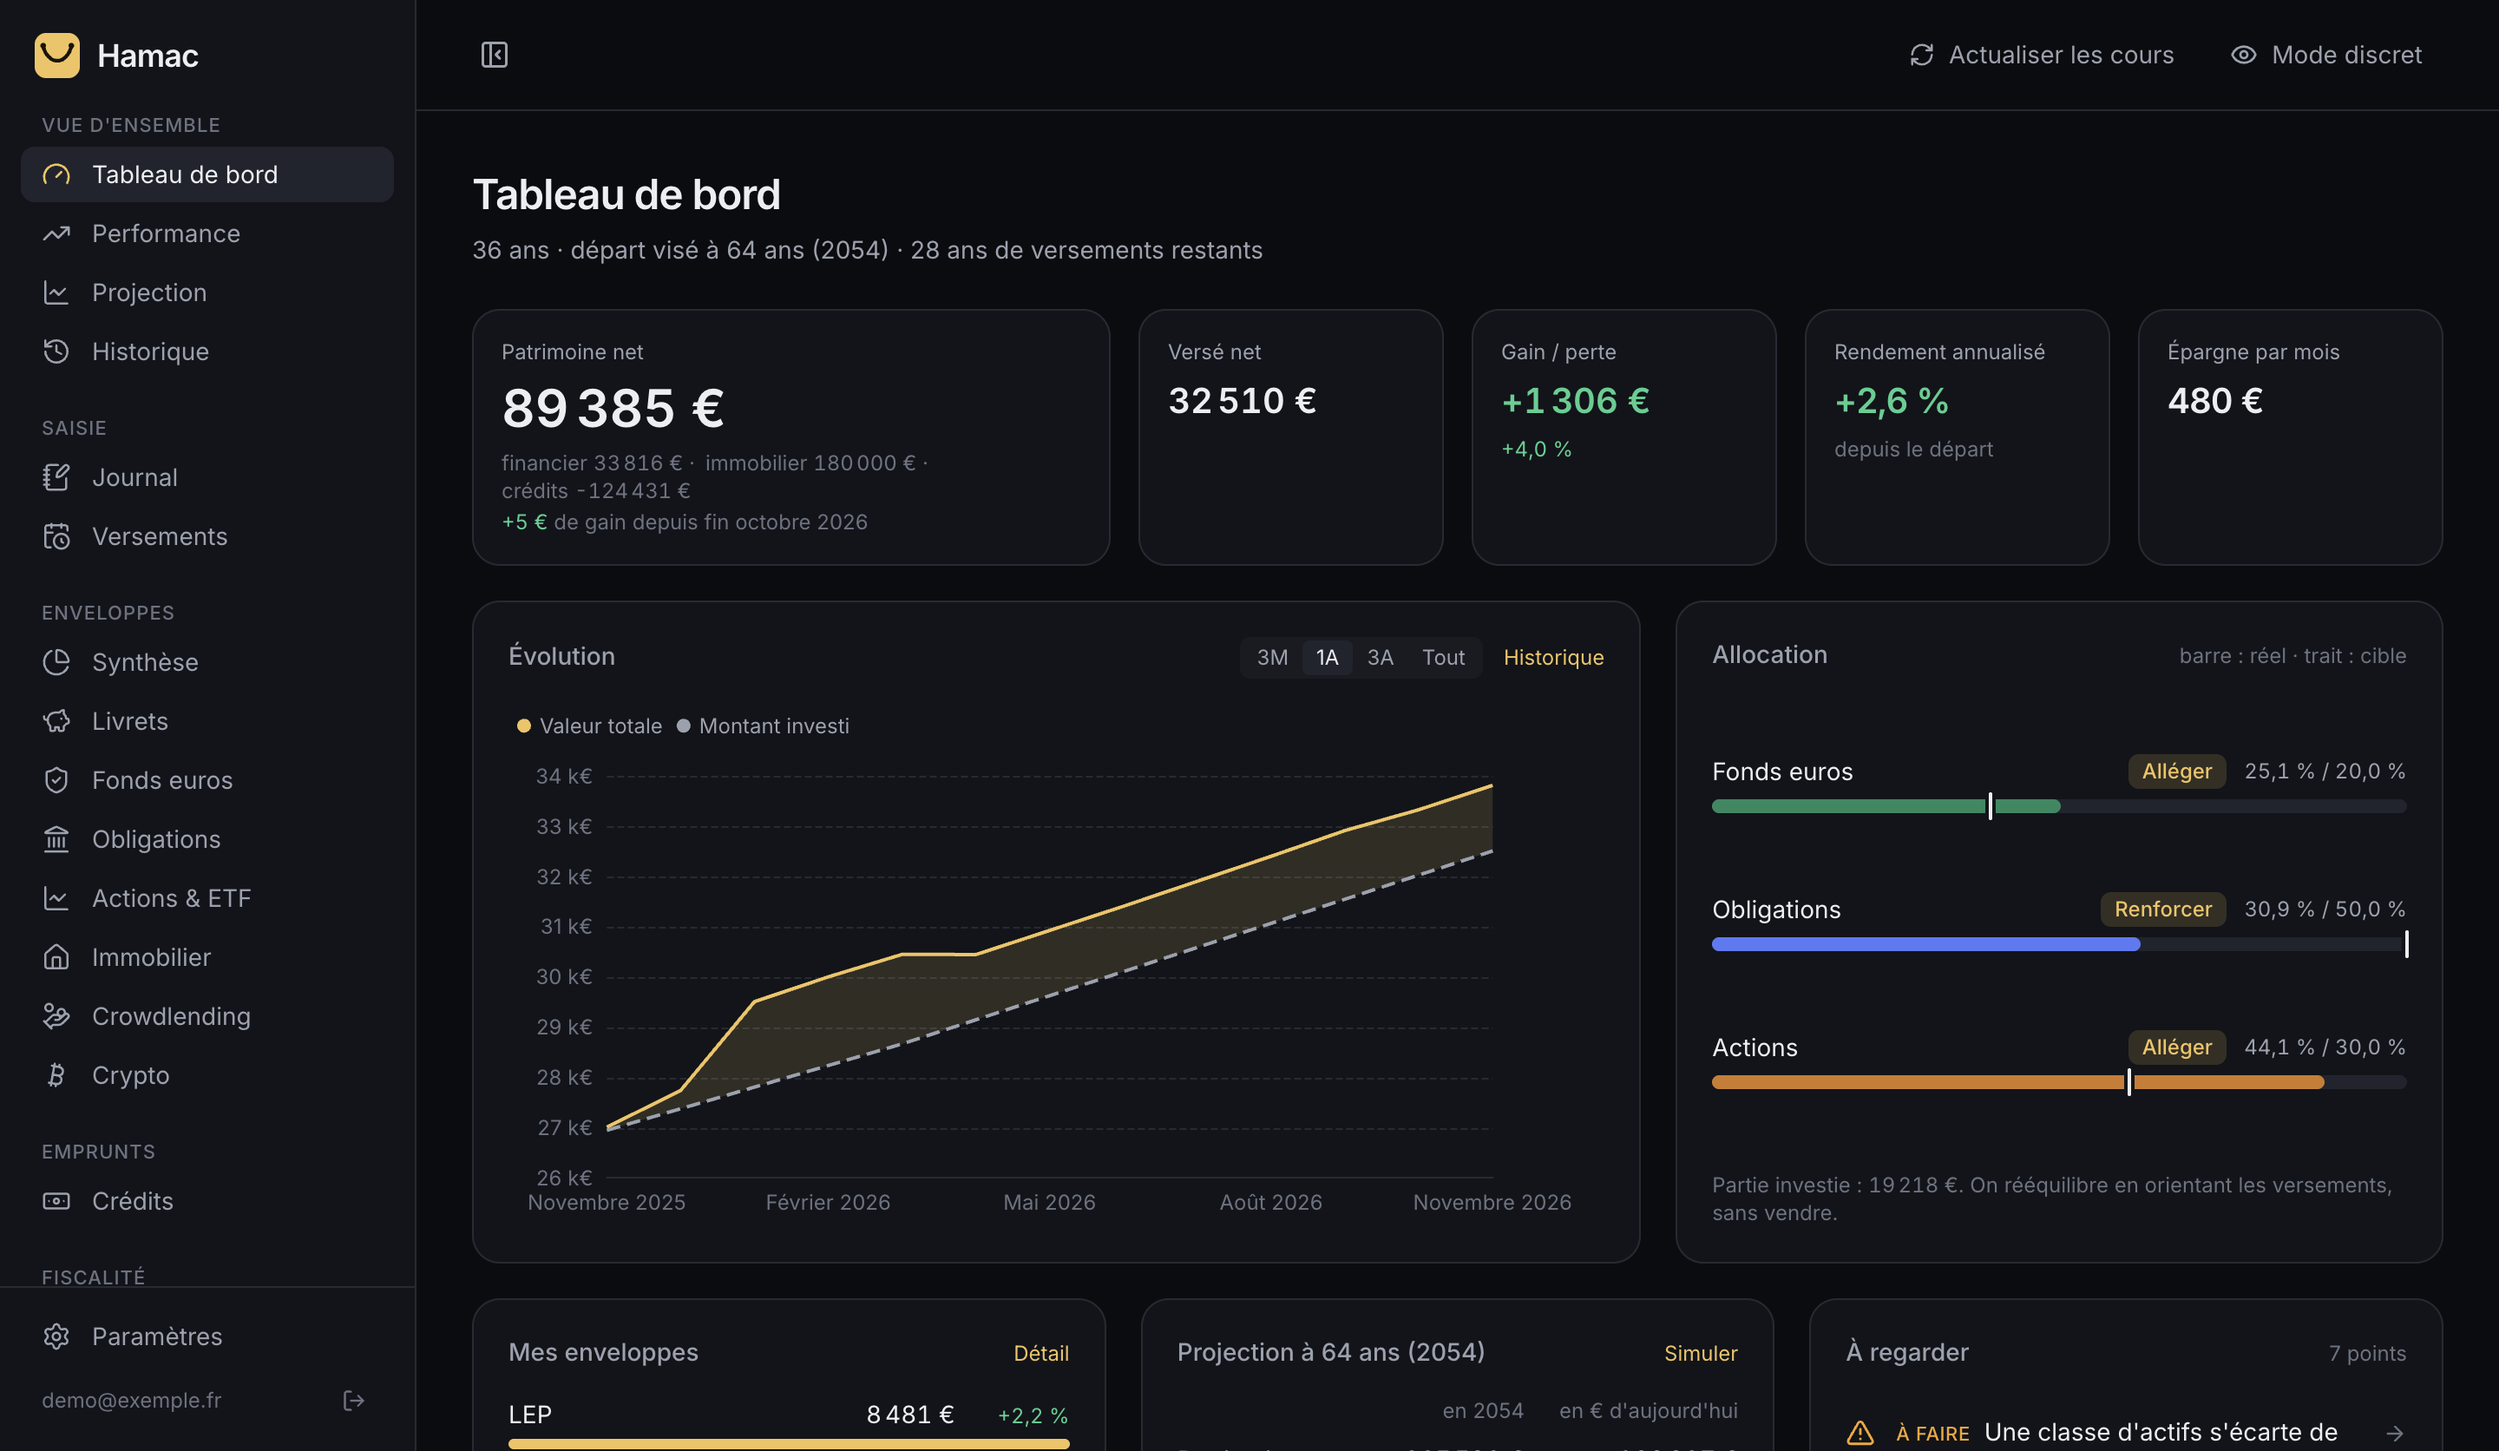
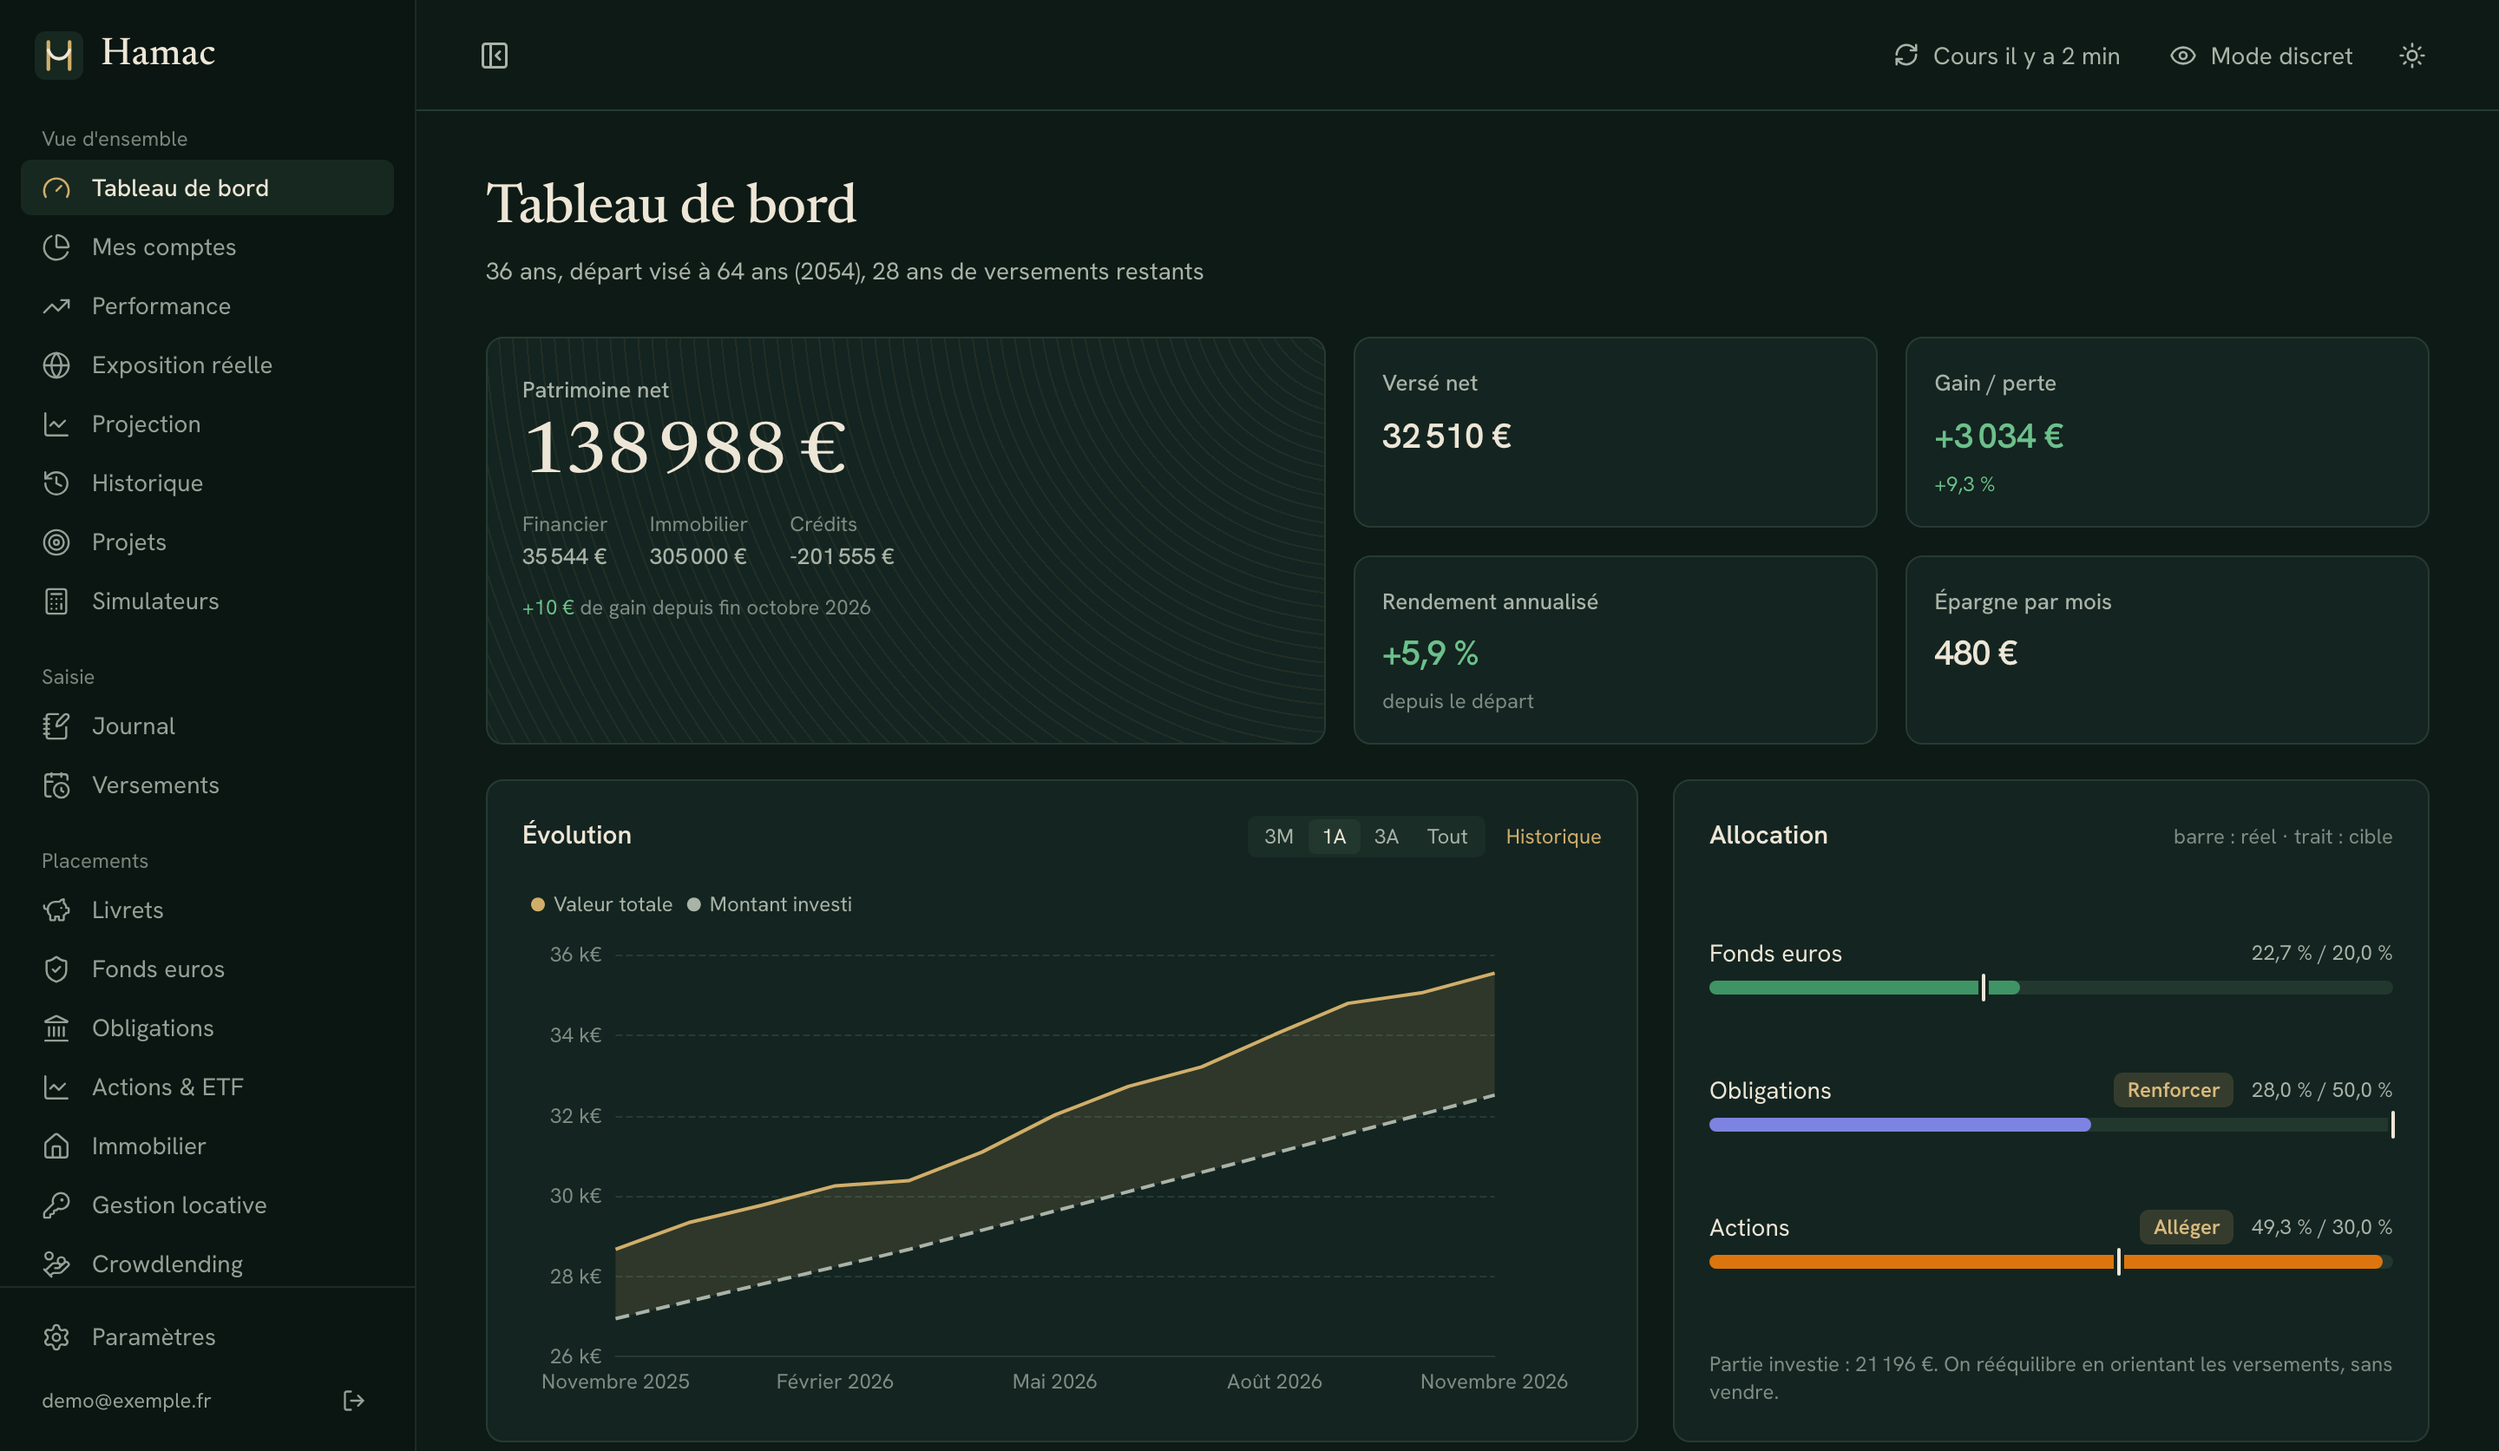
README : nouvelles captures, thème clair et sombre, fonctionnalités à jour

diff --git a/README.md b/README.md
@@ -4,13 +4,20 @@
 
 **Suivre son patrimoine, préparer sa retraite, avec la fiscalité française.**
 
-Livrets · assurance-vie · PEA · PER · compte-titres · obligations · crypto · crowdlending · immobilier · crédits
+Livrets · assurance-vie · PEA · PER · compte-titres · obligations · crypto · crowdlending · immobilier locatif · crédits · autres biens
 
 [![Licence : AGPL v3](https://img.shields.io/badge/licence-AGPL--3.0-blue.svg)](LICENSE)
 ![Application web auto-hébergée](https://img.shields.io/badge/application-web%20auto--h%C3%A9berg%C3%A9e-green)
+![PostgreSQL](https://img.shields.io/badge/base-PostgreSQL-336791)
 ![Statut : en développement](https://img.shields.io/badge/statut-en%20d%C3%A9veloppement-orange)
 
-<img src="docs/captures/dashboard.png" alt="Tableau de bord de Hamac : patrimoine, évolution, allocation réelle et cible, comptes, projection et points à regarder" width="900">
+<picture>
+  <source media="(prefers-color-scheme: dark)" srcset="docs/captures/dashboard.png">
+  <source media="(prefers-color-scheme: light)" srcset="docs/captures/dashboard-clair.png">
+  <img src="docs/captures/dashboard.png" alt="Tableau de bord de Hamac : patrimoine net, évolution, allocation réelle face à la cible" width="900">
+</picture>
+
+<sub>Thème sombre « Nocturne » ou clair « Maison », au choix ou selon le système.</sub>
 
 </div>
 
@@ -55,8 +62,15 @@ en la fiabilisant.
   projection (ou actifs et dettes) et seulement ce qui demande une action.
 - **Évolution de chaque compte et de chaque titre** : valeur totale et montant investi, avec une courbe par
   titre dans un compte. Un clic sur une ligne suffit pour voir un compte ou un titre seul.
-- **Mes comptes** côte à côte, **performance** (rendement annualisé par enveloppe, placement ou compte) et **historique**
-  reconstruit mois par mois depuis le journal : corriger une opération passée corrige tout l'historique.
+- **Mes comptes** côte à côte, avec leur rôle, leur part du patrimoine et la garantie en cas de faillite.
+- **Performance** : rendement annualisé (TRI) par enveloppe, placement ou compte, rendement cumulé hors
+  versements, plus forte baisse, volatilité, et d'où vient le gain.
+- **Historique** : la situation à deux dates et ce qui a changé entre les deux, reconstruit mois par mois depuis
+  le journal. Corriger une opération passée corrige tout l'historique.
+- **Exposition réelle** : ce que contiennent vraiment vos ETF (pays, secteurs, devises, plus grosses lignes), d'après
+  la composition publiée par l'émetteur (Amundi, iShares).
+- **Projets** : un achat, des études, des travaux, avec la somme à réunir, la date, les comptes affectés et le
+  versement mensuel nécessaire.
 
 ### Suivre chaque placement
 
@@ -71,7 +85,14 @@ en la fiabilisant.
 - **Crypto** : positions, plus-values de chaque cession et impôt de l'année.
 - **Crowdlending** : prêts projet par projet, intérêts déclarés par mois et par plateforme, paiements
   partiels, échéances prolongées, retards et défauts, import du fichier Bricks.
-- **Immobilier et SCPI** : biens, fiche descriptive et DPE, statut, frais d'achat et part détenue, pour obtenir le patrimoine net ; suivi locatif avec bail, rappels, loyers, dépenses et rentabilité, résultats par année, valeur dans le temps, vente, documents, quittances, révision du loyer selon l'indice INSEE avec courrier, et fiche imprimable.
+- **Immobilier et SCPI** : biens, fiche descriptive et DPE, statut, frais d'achat et part détenue, pour obtenir
+  le patrimoine net ; dépenses et rentabilité, résultats par année, valeur dans le temps, vente, documents et fiche
+  imprimable.
+- **Gestion locative** : tout le parc loué comme le suivrait une agence. Lots, baux, locataires et garanties,
+  loyers du mois pointés un par un, impayés, lots vides, occupation, révision du loyer selon l'indice INSEE, et
+  courriers prêts à imprimer (quittance, avis d'échéance, relance, attestation, révision).
+- **Autres biens** : or, objets de valeur, véhicules, parts de société non cotée, argent prêté, avec la valeur en
+  cas de vente rapide et l'impôt à la vente.
 - **Crédits** immobiliers, travaux, consommation ou auto, avec différé et remboursements anticipés : échéance et capital restant dû calculés ou repris
   d'un relevé, assurance en montant fixe ou en taux (capital emprunté ou restant dû), coût année par année.
 
@@ -84,8 +105,12 @@ en la fiabilisant.
   établissements et les grosses dépenses prévues, puis la phase de retraits jusqu'à l'âge horizon.
 - **Fourchette de résultats** selon les marchés (simulation de Monte-Carlo) et simulateur « et si »
   (versement en plus, âge de départ, rendement, inflation).
-- **Impôts** : ce que coûterait un retrait aujourd'hui, rendements nets comparés, impôts de chaque année
-  (acompte, régularisation, prélèvements sociaux).
+- **Simulateurs** : rendement brut et net d'impôts d'un placement avant d'investir (obligation, ETF ou actions,
+  fonds euros, crowdlending…), comparés côte à côte pour un même montant.
+- **Impôts** : ce qu'il faudra payer à la prochaine déclaration, ce que coûterait un retrait aujourd'hui,
+  rendements nets comparés, impôts de chaque année (acompte, régularisation, prélèvements sociaux).
+- **Compteurs et plafonds** : ancienneté des PEA et assurances-vie, plafonds de versement, abattement annuel de
+  l'assurance-vie et abattements de donation restants.
 - **Aide à la déclaration** : cases à reporter par année de revenus, fiche par établissement et récapitulatif
   complet, contrôles de cohérence, comparaison avec le document reçu, export PDF et CSV. Un document d'aide, qui
   ne remplace ni l'IFU ni la notice officielle.
@@ -107,54 +132,63 @@ en la fiabilisant.
 - **Recherche de titres** par nom ou par ISIN (actions, ETF, obligations d'État et d'entreprise, crypto).
 - **Import des relevés** de banque ou de courtier en CSV, OFX ou QIF (aperçu avant import, doublons repérés) et export CSV.
 - **Sauvegarde complète** exportable et restaurable, pour passer d'une instance à une autre.
-- Barre latérale réductible, tableaux triables, mode discret qui masque les montants, interface sombre.
+- Barre latérale réductible, tableaux triables, mode discret qui masque les montants, thème clair ou sombre,
+  modules à afficher ou masquer.
 
 ## Captures
 
 <table>
   <tr>
-    <td><img src="docs/captures/evolution.png" alt="Évolution d'un compte : valeur totale, montant investi et une courbe par titre"></td>
-    <td><img src="docs/captures/credits.png" alt="Crédits : taux, assurance, coût total et graphique année par année"></td>
+    <td width="50%"><img src="docs/captures/comptes.png" alt="Mes comptes : valeur, versé net, gain et part du patrimoine de chaque compte"></td>
+    <td width="50%"><img src="docs/captures/performance.png" alt="Performance : rendement annualisé, rendement cumulé et origine du gain"></td>
   </tr>
   <tr>
-    <td align="center">Évolution d'un compte, titre par titre</td>
-    <td align="center">Crédits : coût année par année</td>
+    <td align="center">Mes comptes côte à côte</td>
+    <td align="center">Performance et origine du gain</td>
   </tr>
   <tr>
-    <td><img src="docs/captures/projection.png" alt="Projection jusqu'à la retraite avec fourchette et simulateur"></td>
-    <td><img src="docs/captures/obligations.png" alt="Obligations : prochain coupon, rendement à l'échéance, plus-value"></td>
+    <td width="50%"><img src="docs/captures/projection.png" alt="Projection jusqu'à la retraite par classe d'actifs, avec fourchette et simulateur"></td>
+    <td width="50%"><img src="docs/captures/exposition.png" alt="Exposition réelle : pays et secteurs contenus dans les ETF"></td>
   </tr>
   <tr>
     <td align="center">Projection et simulateur « et si »</td>
-    <td align="center">Obligations détenues et achats prévus</td>
+    <td align="center">Exposition réelle des ETF</td>
   </tr>
   <tr>
-    <td><img src="docs/captures/crowdlending.png" alt="Crowdlending : plateformes et suivi projet par projet"></td>
-    <td><img src="docs/captures/declaration.png" alt="Aide à la déclaration : cases à reporter et contrôles"></td>
+    <td width="50%"><img src="docs/captures/historique.png" alt="Historique : situation à deux dates et évolution mois par mois"></td>
+    <td width="50%"><img src="docs/captures/gestion-locative.png" alt="Gestion locative : loyers du mois, lots vides, occupation et rentabilité"></td>
+  </tr>
+  <tr>
+    <td align="center">Historique reconstruit depuis le journal</td>
+    <td align="center">Gestion locative</td>
+  </tr>
+  <tr>
+    <td width="50%"><img src="docs/captures/credits.png" alt="Crédits : mensualités, capital restant dû et poids des crédits"></td>
+    <td width="50%"><img src="docs/captures/obligations.png" alt="Obligations : prochaine échéance, coupons et rendement à l'échéance"></td>
+  </tr>
+  <tr>
+    <td align="center">Crédits et capital restant dû</td>
+    <td align="center">Obligations gardées jusqu'à l'échéance</td>
+  </tr>
+  <tr>
+    <td width="50%"><img src="docs/captures/crowdlending.png" alt="Crowdlending : plateformes et suivi projet par projet"></td>
+    <td width="50%"><img src="docs/captures/impots.png" alt="Impôts : à payer à la prochaine déclaration et impôt si tout était retiré"></td>
   </tr>
   <tr>
     <td align="center">Crowdlending, projet par projet</td>
+    <td align="center">Impôts de l'année et en cas de retrait</td>
+  </tr>
+  <tr>
+    <td width="50%"><img src="docs/captures/declaration.png" alt="Aide à la déclaration : cases à reporter et contrôles de cohérence"></td>
+    <td width="50%"><img src="docs/captures/journal.png" alt="Journal des opérations, avec recherche et filtres"></td>
+  </tr>
+  <tr>
     <td align="center">Aide à la déclaration</td>
-  </tr>
-  <tr>
-    <td><img src="docs/captures/repartition.png" alt="Répartition cible par classe d'actifs, avec rendement attendu"></td>
-    <td><img src="docs/captures/etablissements.png" alt="Établissements avec leurs grilles de frais"></td>
-  </tr>
-  <tr>
-    <td align="center">Répartition cible</td>
-    <td align="center">Établissements et frais</td>
-  </tr>
-  <tr>
-    <td><img src="docs/captures/journal.png" alt="Journal des opérations, triable et filtrable"></td>
-    <td><img src="docs/captures/historique.png" alt="Historique du patrimoine reconstruit depuis le journal"></td>
-  </tr>
-  <tr>
     <td align="center">Journal des opérations</td>
-    <td align="center">Historique reconstruit depuis le journal</td>
   </tr>
 </table>
 
-Les captures utilisent uniquement des données fictives.
+Les captures utilisent uniquement le jeu de démonstration, entièrement fictif.
 
 ## Installation
 
@@ -316,7 +350,7 @@ Les contributions sont bienvenues : signalements, idées, corrections, nouvelles
 - Première version publiée
 - Affichage adapté au téléphone et installation en application (PWA)
 - Alertes par bots Discord, Telegram et Matrix
-- Double authentification, journal des connexions et vérification de l'e-mail, pour une instance ouverte au public
+- Journal des connexions et vérification de l'e-mail, pour une instance ouverte au public
 - Modèles d'établissements pré-remplis (grilles de frais datées, à vérifier)
 - Formats d'import CSV prêts à l'emploi pour les principaux courtiers
 - Mémorisation des tris et des filtres
